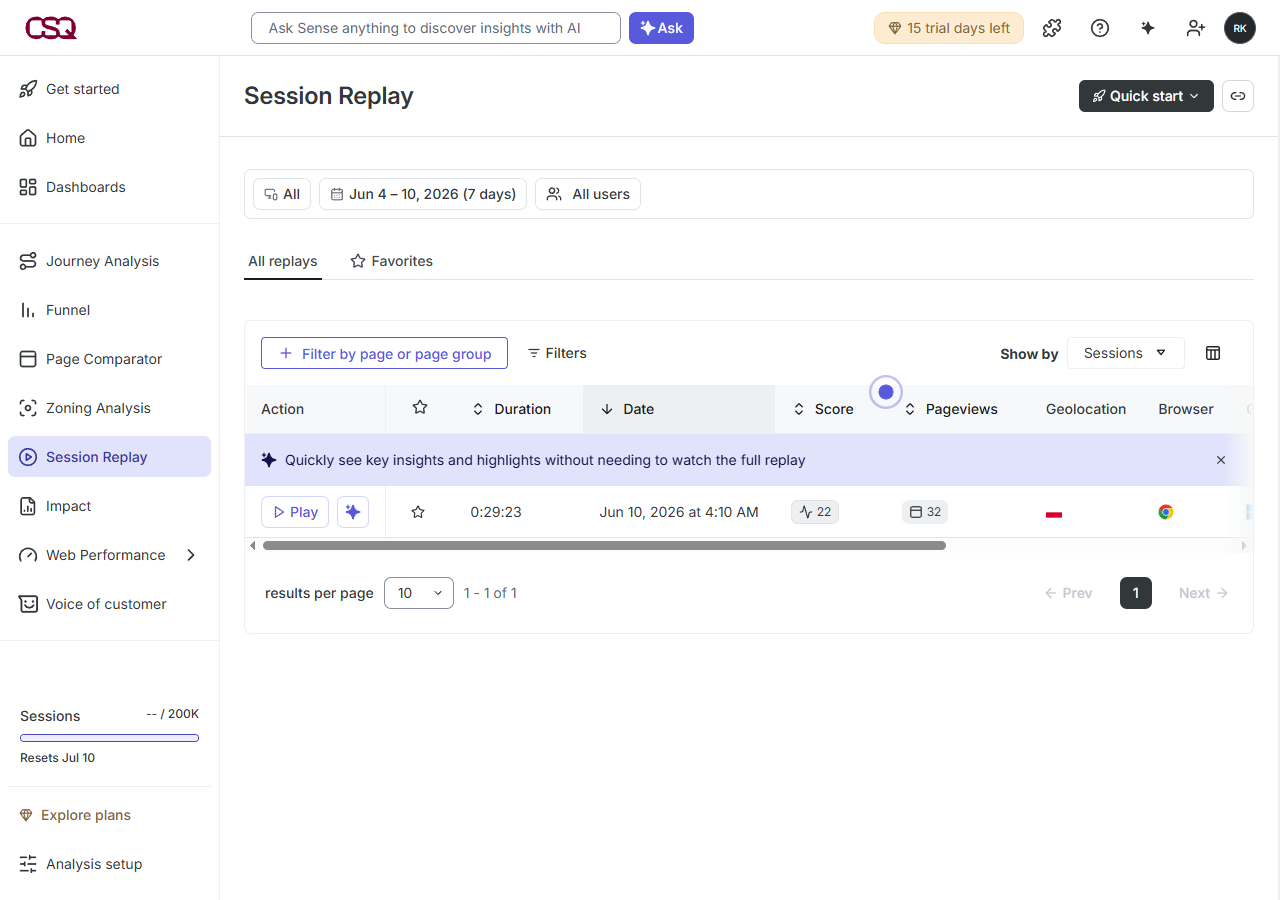
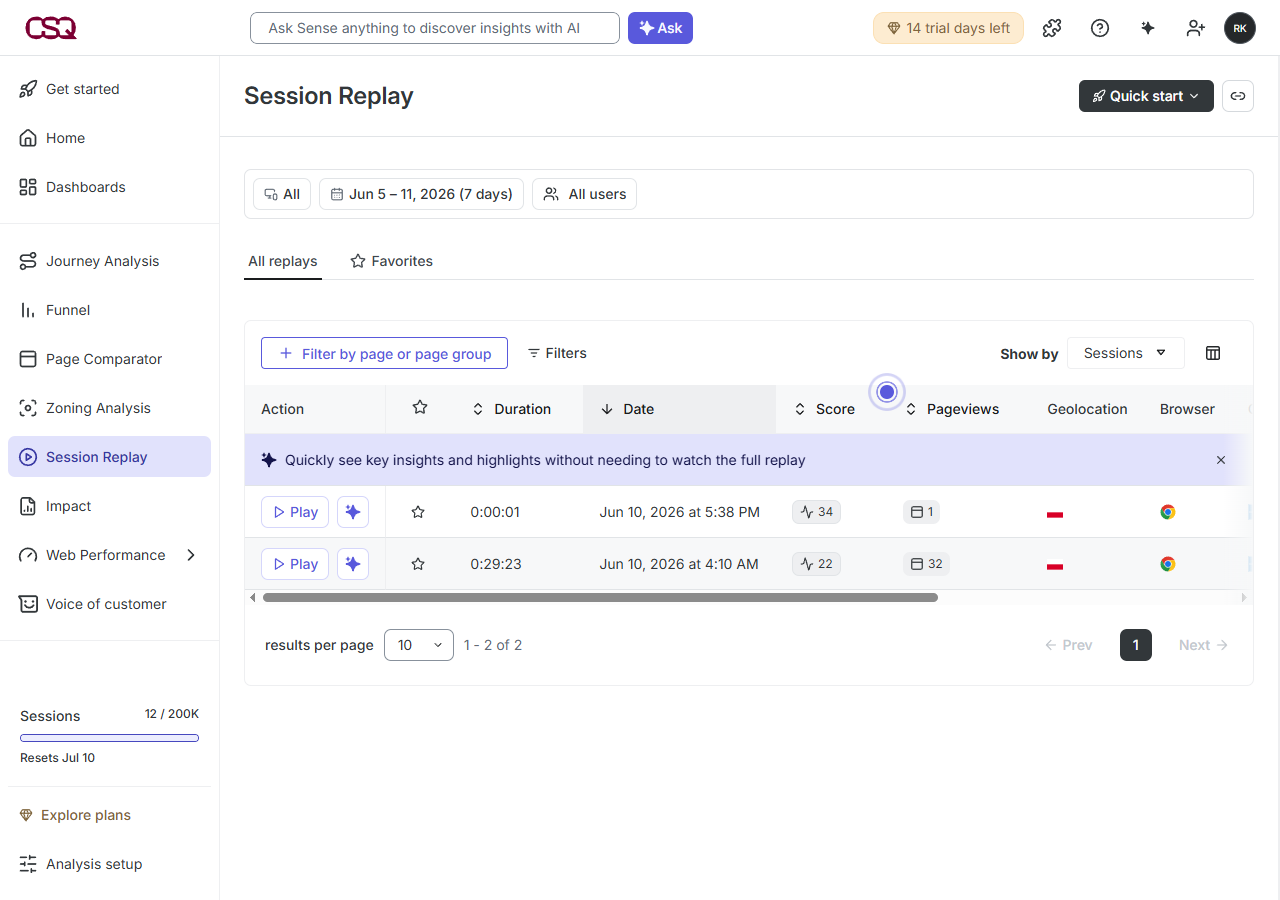
docs: GA pages report, Contentsquare dashboard metrics and refreshed replay list after 24h of data

diff --git a/README.md b/README.md
@@ -244,10 +244,20 @@ Raport "Strony w czasie rzeczywistym" — widoczne poszczególne trasy aplikacji
 
 ![GA4 Realtime Pages](docs/screenshots/ga-realtime-pages.png)
 
+Raport historyczny "Strony i ekrany" — zagregowane wyświetlenia tras aplikacji w czasie
+(323 wyświetlenia, w tym `/dashboard` 84):
+
+![GA4 Pages report](docs/screenshots/ga-pages-report.png)
+
 ## Hotjar / Contentsquare
 
 Hotjar jest częścią Contentsquare — aplikacja ładuje tag śledzący, który nagrywa sesje użytkowników
 (Session Replay) i buduje heatmapy. Panel: [app.contentsquare.com](https://app.contentsquare.com).
+
+Dashboard "Kariera at a glance" — zagregowane metryki zachowań użytkowników (liczba sesji,
+bounce rate, średni czas sesji, Largest Contentful Paint):
+
+![Contentsquare dashboard](docs/screenshots/hotjar-dashboard.png)
 
 Lista nagranych sesji użytkowników w panelu:
 
